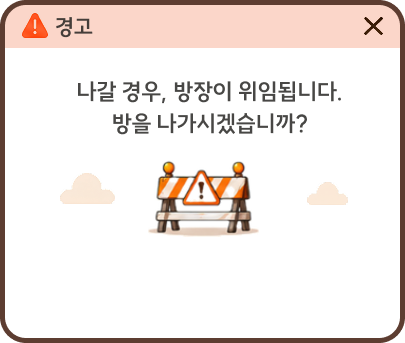
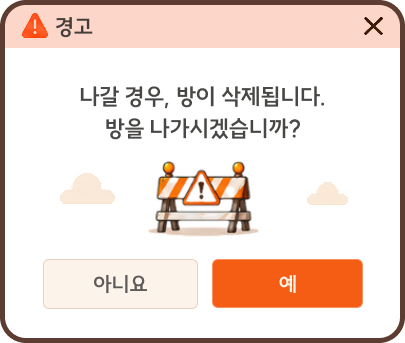
feat: 방 나가기/방폭파 팝업 신규 이미지 적용
- 방장 경고 팝업: 새 일체형 배경으로 교체(문구: 방이 삭제됩니다), 오버레이 예/아니오 버튼 위치를 베이크된 버튼에 픽셀 정합
- 팀원 방폭파 안내 팝업 신규: 방장 이탈로 튕기면 메인 메뉴 위 오버레이로 안내(JobsnailRoomClosedNotice)
- 경고 팝업은 방장 전용으로 분기 — 팀원은 방이 유지되므로 경고 없이 바로 퇴장

diff --git a/Assets/UI/Scripts/Jobsnail/JobsnailRoomClosedNotice.cs b/Assets/UI/Scripts/Jobsnail/JobsnailRoomClosedNotice.cs
@@ -1,0 +1,68 @@
+using UnityEngine;
+using UnityEngine.SceneManagement;
+using UnityEngine.UI;
+
+/// <summary>
+/// 방장 이탈로 방이 폭파(삭제)됐을 때, 튕겨나간 팀원에게 메인 메뉴 위로 안내 팝업을 띄운다.
+/// 씬 전환(BootstrapScene 로드) 이후에 떠야 하므로 sceneLoaded 콜백으로 예약하는 구조.
+/// </summary>
+public static class JobsnailRoomClosedNotice
+{
+    private const string BackgroundPath = "UI_NEW/03_팝업 화면들/방 폭파 안내 팝업/팀원-방폭파 안내 배경";
+    private const string YesButtonPath = "UI_NEW/03_팝업 화면들/방장 방 나갈때 경고 팝업/예 버튼";
+
+    private static bool s_Pending;
+
+    /// <summary>메인 메뉴 도착 후 팝업을 띄운다. 아직 다른 씬이면 BootstrapScene 로드 시점으로 예약.</summary>
+    public static void ShowOnMainMenu()
+    {
+        if (SceneManager.GetActiveScene().name == SceneNames.BootstrapScene)
+        {
+            Build();
+            return;
+        }
+
+        if (s_Pending)
+            return;
+
+        s_Pending = true;
+        SceneManager.sceneLoaded += OnSceneLoaded;
+    }
+
+    private static void OnSceneLoaded(Scene scene, LoadSceneMode mode)
+    {
+        if (scene.name != SceneNames.BootstrapScene)
+            return;
+
+        SceneManager.sceneLoaded -= OnSceneLoaded;
+        s_Pending = false;
+        Build();
+    }
+
+    private static void Build()
+    {
+        var canvas = JobsnailUiKit.EnsureOverlayCanvas("@JobsnailRoomClosedNotice", 700);
+        if (canvas.transform.childCount > 0)
+            return;
+
+        var dim = JobsnailUiKit.Box("DimBlocker", canvas.transform,
+            Vector2.zero, Vector2.one, Vector2.zero, Vector2.zero, new Color(0f, 0f, 0f, 0.52f));
+        dim.raycastTarget = true;
+
+        var frame = JobsnailUiKit.Rect("NoticeFrame", canvas.transform,
+            new Vector2(0.5f, 0.5f), new Vector2(0.5f, 0.5f), Vector2.zero, new Vector2(405f, 343f));
+        var frameImage = frame.gameObject.AddComponent<Image>();
+        frameImage.sprite = JobsnailUiKit.Sprite(BackgroundPath);
+
+        // 배경에 그려진 예 버튼 자리 위에 실제 버튼 스프라이트를 얹는다(경고 팝업과 동일 규격).
+        JobsnailUiKit.Button("YesButton", frame, JobsnailUiKit.Sprite(YesButtonPath),
+            new Vector2(0.5f, 0.5f), new Vector2(0.5f, 0.5f), new Vector2(0f, -112f), new Vector2(151f, 49f),
+            () => Object.Destroy(canvas.gameObject));
+
+        // 배경에 그려진 우상단 × 위 투명 히트박스.
+        var close = JobsnailUiKit.Button("CloseButton", frame, null,
+            new Vector2(0.5f, 0.5f), new Vector2(0.5f, 0.5f), new Vector2(171.5f, 144.3f), new Vector2(44f, 44f),
+            () => Object.Destroy(canvas.gameObject));
+        close.image.color = Color.clear;
+    }
+}

diff --git a/Assets/UI_NEW/Scripts/LobbyPanel.cs b/Assets/UI_NEW/Scripts/LobbyPanel.cs
@@ -283,7 +283,15 @@ namespace SeoulZikimi.UI.New
         private void RequestLeave()
         {
             LeaveRequested?.Invoke();
-            router.Show(UiNewScreen.HostLeaveWarning);
+            // 경고 팝업 문구("나갈 경우, 방이 삭제됩니다")는 방장에게만 해당한다.
+            // 팀원은 방이 유지되므로 경고 없이 바로 퇴장한다.
+            bool isHost = JobsnailSessionManager.Instance.ActiveSession?.IsHost ?? localIsHost;
+            if (isHost)
+            {
+                router.Show(UiNewScreen.HostLeaveWarning);
+                return;
+            }
+            transform.root.GetComponentInChildren<HostLeaveWarningPanel>(true)?.Confirm();
         }
 
         private void SendQuickChat(int index)

diff --git a/Assets/Scripts/Managers/JobSnailSessionManager.cs b/Assets/Scripts/Managers/JobSnailSessionManager.cs
@@ -201,6 +201,7 @@ public class JobsnailSessionManager
             m_CachedHostId = null;
             m_IsHost = false;
             m_IsLeaving = false;
+            JobsnailRoomClosedNotice.ShowOnMainMenu();   // 방폭파로 튕긴 팀원에게 안내 팝업 예약
             ShowMainMenuScene();
         }
     }
